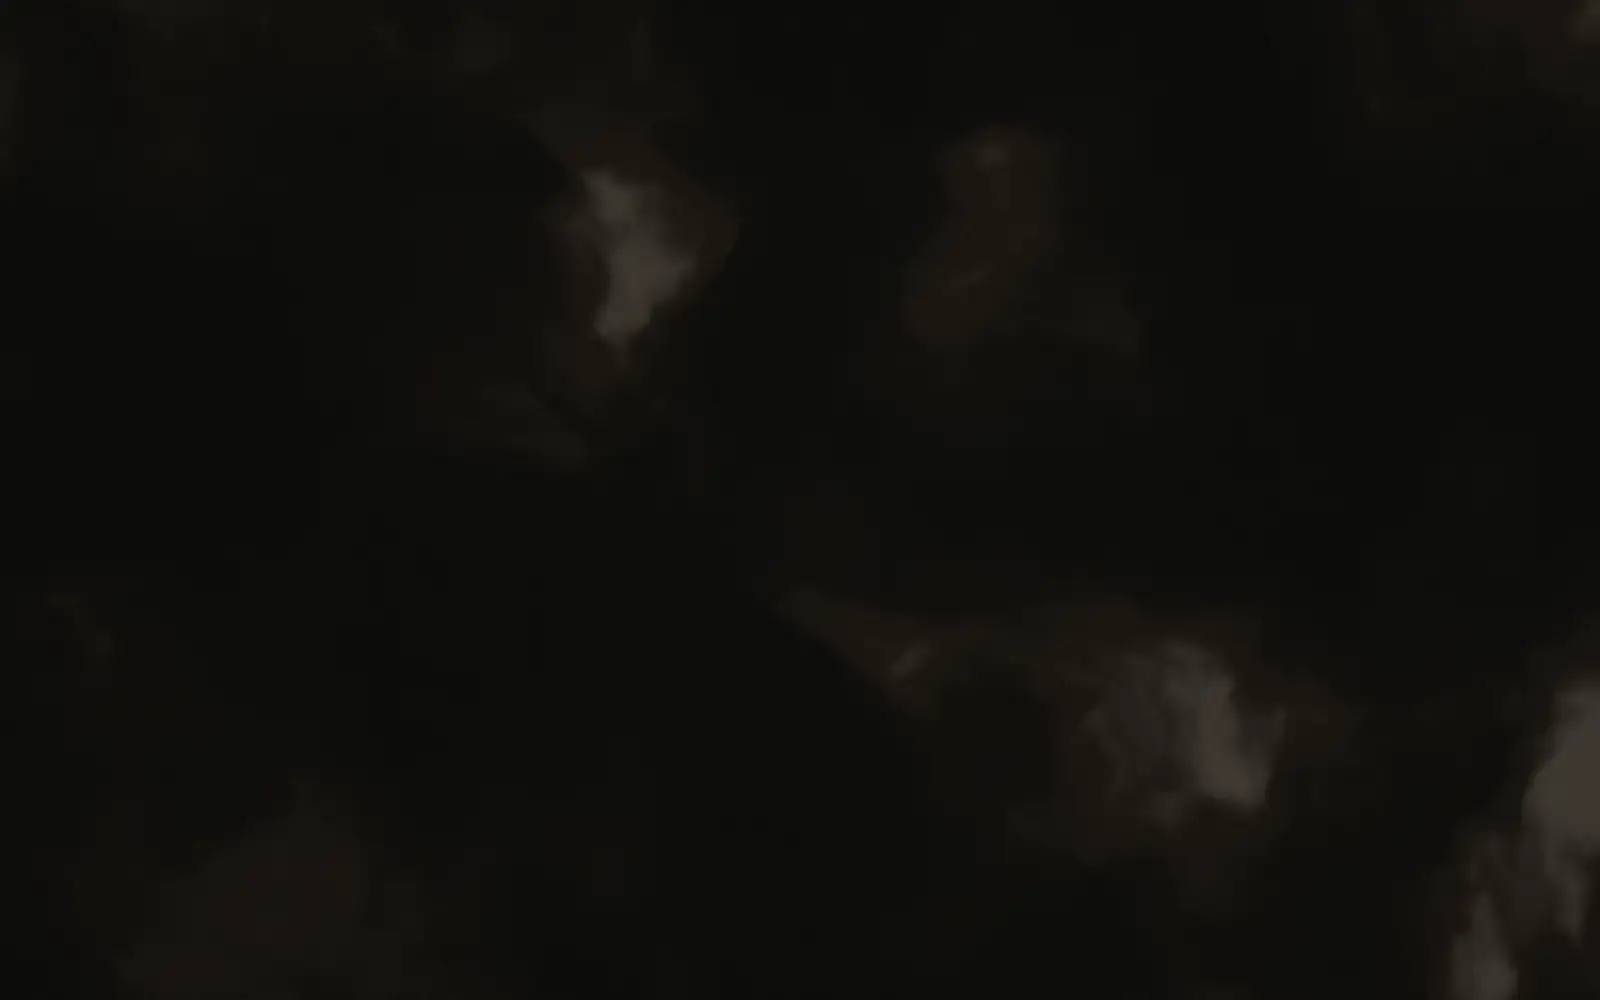
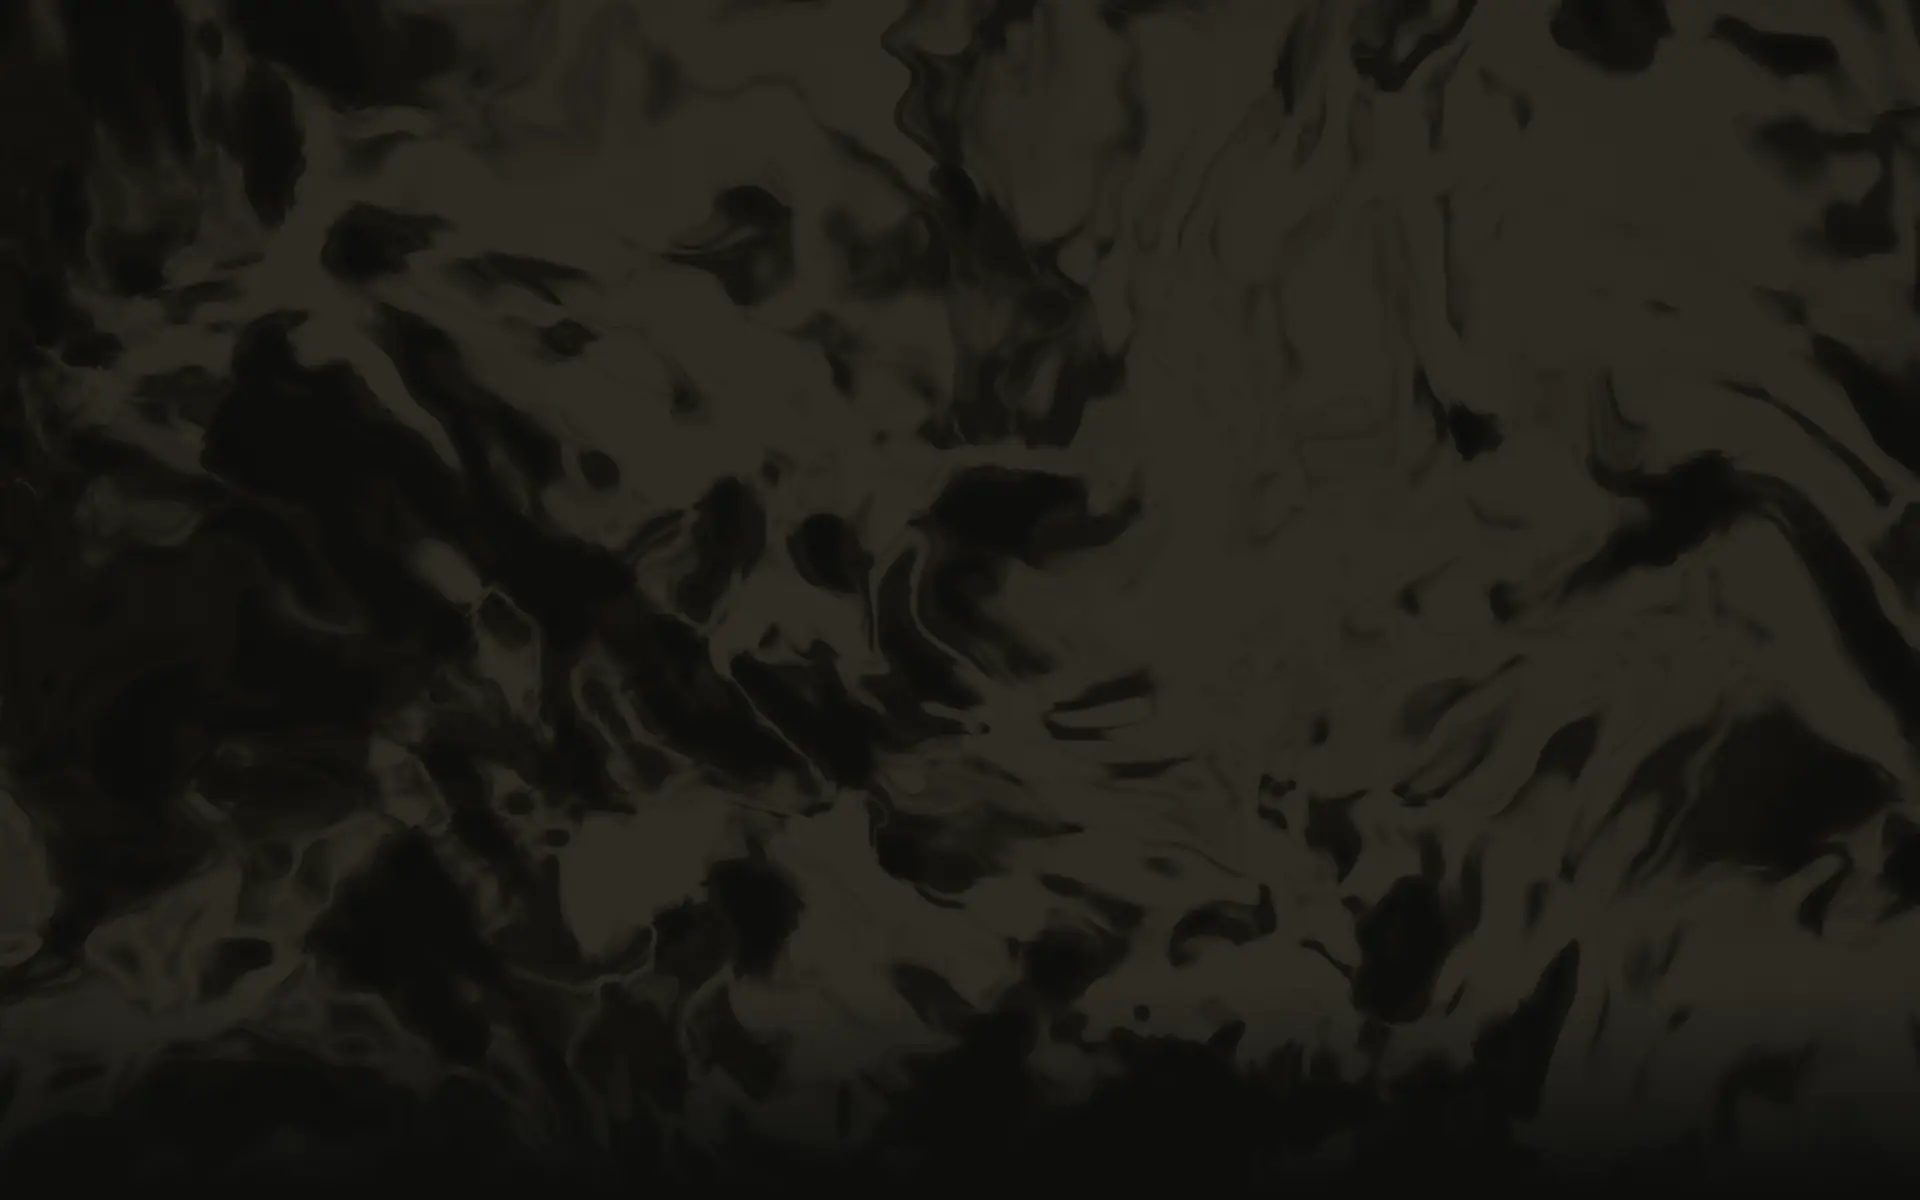
fix: make the JR mark readable and the hero background full bleed

diff --git a/css/styles.css b/css/styles.css
@@ -277,8 +277,8 @@ button {
 
 .jr-merkki {
   display: block;
-  width: 1.35rem;
-  height: 1.35rem;
+  height: 1.05em;
+  width: auto;
   flex: 0 0 auto;
 }
 
@@ -291,7 +291,7 @@ button {
 @media (max-width: 480px) {
   .ylapalkki-sisus { gap: 0.35rem; }
   .merkki { gap: 0.3rem; font-size: 0.95rem; }
-  .jr-merkki { width: 1.15rem; height: 1.15rem; }
+  .jr-merkki { height: 0.95em; }
   .kieli button { padding-inline: 0.38rem; font-size: 0.74rem; }
 }
 
@@ -454,9 +454,14 @@ main {
   position: relative;
   display: flex;
   align-items: flex-end;
-  min-height: calc(100svh - var(--ylapalkki));
+  box-sizing: border-box;
+  width: 100vw;
+  max-width: 100vw;
+  margin-left: calc(50% - 50vw);
   padding-top: 1.25rem;
   padding-bottom: clamp(1.6rem, 4vh, 3rem);
+  padding-inline: max(var(--sivu), calc((100vw - 1180px) / 2));
+  min-height: calc(100svh - var(--ylapalkki));
   overflow: clip;
   background-color: #0c0d0b;
   background-image: url("../assets/hero/fluid.webp");
@@ -471,7 +476,23 @@ main {
   }
 }
 
+.hero::after {
+  content: "";
+  position: absolute;
+  left: 0;
+  right: 0;
+  bottom: 0;
+  height: 5.5rem;
+  background: linear-gradient(to bottom, transparent, #0c0d0b);
+  pointer-events: none;
+  z-index: 0;
+}
+
 .ilman-js {
+  box-sizing: border-box;
+  width: 100vw;
+  max-width: 100vw;
+  margin-left: calc(50% - 50vw);
   background-color: #0c0d0b;
   background-image: url("../assets/hero/fluid.webp");
   background-repeat: no-repeat;
@@ -1438,7 +1459,11 @@ main {
 .virhe {
   position: relative;
   z-index: 3;
-  padding: 6rem 0 4rem;
+  padding-block: 6rem 4rem;
+}
+
+.ilman-js {
+  padding-inline: max(var(--sivu), calc((100vw - 1180px) / 2));
 }
 
 .ilman-js h1 {

diff --git a/ratkaisut/chatbot/index.html b/ratkaisut/chatbot/index.html
@@ -26,7 +26,7 @@
   <div class="vinjetti" aria-hidden="true"></div>
   <header class="ylapalkki" id="ylapalkki">
     <div class="kehys ylapalkki-sisus">
-      <a class="merkki" href="../../"><svg class="jr-merkki" viewBox="0 0 32 32" aria-hidden="true" focusable="false"><path fill="none" stroke="#e4c27a" stroke-width="2.05" stroke-linecap="round" stroke-linejoin="round" d="M8 5.1V14.2C8 19.4 3.1 21.6 5.2 23.6C9.4 26.6 20.4 26.4 26.2 24.2L19.4 14.6V5.1C19.4 5.1 28.8 5.5 28.3 11.2C27.8 16.4 19.4 16.3 19.4 14.6"/></svg><span class="merkki-nimi">Joakim Rydenfelt</span></a>
+      <a class="merkki" href="../../"><img class="jr-merkki" src="../../assets/jr.svg" alt="" width="42" height="26" aria-hidden="true"><span class="merkki-nimi">Joakim Rydenfelt</span></a>
       <a class="tekstilinkki" id="ratkaisu-takaisin" href="../../">Takaisin portfolioon</a>
       <div class="kieli" id="kieli" role="group" aria-label="Kieli">
         <button type="button" id="kieli-fi" data-kieli="fi" lang="fi" aria-pressed="true">Suomi</button>

diff --git a/index.html b/index.html
@@ -30,7 +30,7 @@
 
   <header class="ylapalkki" id="ylapalkki">
     <div class="kehys ylapalkki-sisus">
-      <a class="merkki" href="#alku"><svg class="jr-merkki" viewBox="0 0 32 32" aria-hidden="true" focusable="false"><path fill="none" stroke="#e4c27a" stroke-width="2.05" stroke-linecap="round" stroke-linejoin="round" d="M8 5.1V14.2C8 19.4 3.1 21.6 5.2 23.6C9.4 26.6 20.4 26.4 26.2 24.2L19.4 14.6V5.1C19.4 5.1 28.8 5.5 28.3 11.2C27.8 16.4 19.4 16.3 19.4 14.6"/></svg><span class="merkki-nimi">Joakim Rydenfelt</span></a>
+      <a class="merkki" href="#alku"><img class="jr-merkki" src="assets/jr.svg" alt="" width="42" height="26" aria-hidden="true"><span class="merkki-nimi">Joakim Rydenfelt</span></a>
       <nav id="navigaatio" class="navigaatio" aria-label="Sivun osiot"></nav>
       <div class="kieli" id="kieli" role="group" aria-label="Kieli">
         <button type="button" id="kieli-fi" data-kieli="fi" lang="fi" aria-pressed="true">Suomi</button>
